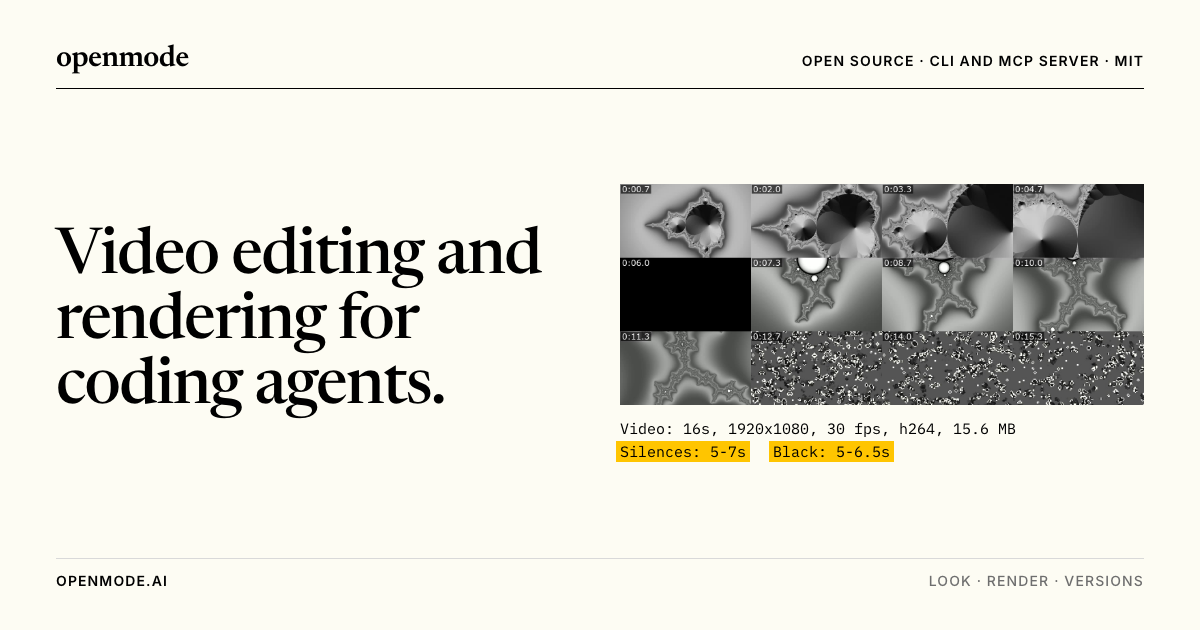
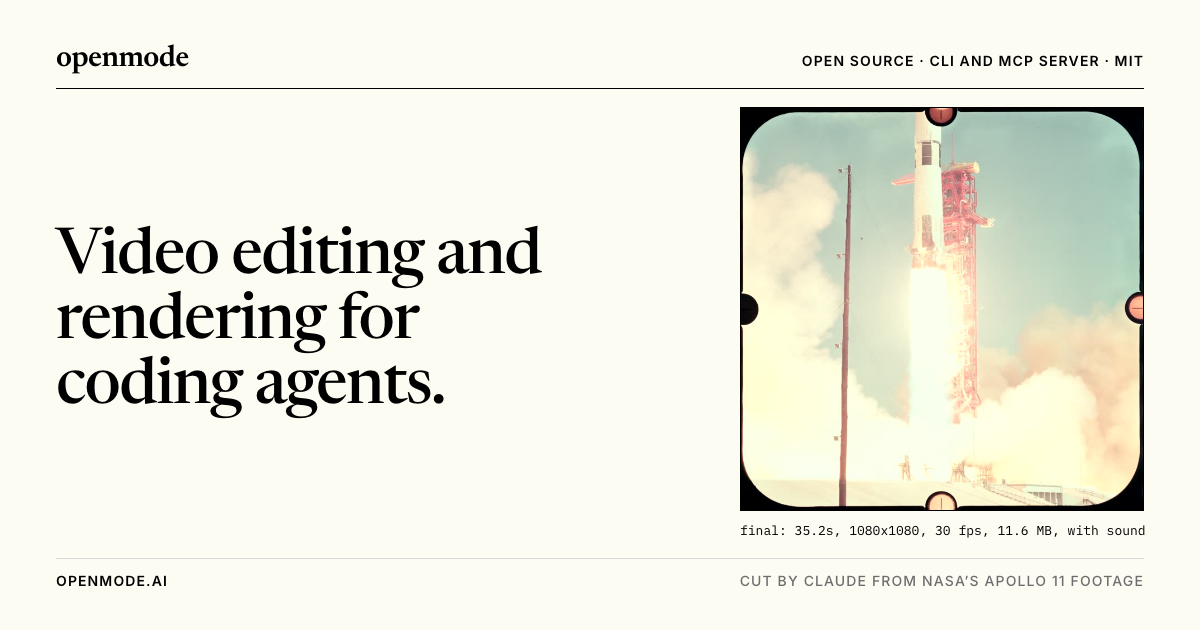
Show the Apollo 11 launch in the link preview image (#8)
The preview that X and others show for openmode.ai still pictured the
old test clip. design/og.html now uses the launch frame; og.png is
regenerated and its links carry ?v=2 so cached previews refresh.

Changed region(s): [[0.4933, 0.1508, 0.9558, 0.8444], [0.6167, 0.9048, 0.9558, 0.9349]]

diff --git a/site/index.html b/site/index.html
@@ -15,14 +15,14 @@
 <meta property="og:url" content="https://openmode.ai/">
 <meta property="og:title" content="openmode: video editing and rendering for coding agents">
 <meta property="og:description" content="An open-source CLI and MCP server. Agents look at footage, render an edit file to MP4 and keep every version, on your machine with your ffmpeg.">
-<meta property="og:image" content="https://openmode.ai/og.png">
+<meta property="og:image" content="https://openmode.ai/og.png?v=2">
 <meta property="og:image:width" content="1200">
 <meta property="og:image:height" content="630">
-<meta property="og:image:alt" content="openmode: video editing and rendering for coding agents, beside a contact sheet of a test clip.">
+<meta property="og:image:alt" content="openmode: video editing and rendering for coding agents, beside a frame of the Apollo 11 launch.">
 <meta name="twitter:card" content="summary_large_image">
 <meta name="twitter:title" content="openmode: video editing and rendering for coding agents">
 <meta name="twitter:description" content="An open-source CLI and MCP server. Agents look at footage, render an edit file to MP4 and keep every version, on your machine with your ffmpeg.">
-<meta name="twitter:image" content="https://openmode.ai/og.png">
+<meta name="twitter:image" content="https://openmode.ai/og.png?v=2">
 
 <link rel="preload" href="fonts/newsreader-latin.woff2" as="font" type="font/woff2" crossorigin>
 <link rel="preload" href="img/apollo-11-poster.jpg" as="image">
@@ -35,7 +35,7 @@
   "name": "openmode",
   "description": "Open-source video editing and rendering for coding agents. A command line tool and MCP server that runs locally on ffmpeg: look at a video as a contact sheet with facts, render an edit file or a folder of frames to MP4, and keep every version.",
   "url": "https://openmode.ai/",
-  "image": "https://openmode.ai/og.png",
+  "image": "https://openmode.ai/og.png?v=2",
   "applicationCategory": "MultimediaApplication",
   "applicationSubCategory": "Video editing",
   "operatingSystem": "macOS, Linux, Windows",

diff --git a/design/og.html b/design/og.html
@@ -15,8 +15,9 @@
   .head .eyebrow { font-size: 14px; }
   .body { flex: 1; display: grid; grid-template-columns: 520px 1fr; gap: 44px; align-items: center; }
   .body h1 { font-size: 64px; margin: 0; line-height: 1.02; text-wrap: wrap; }
-  .body img { width: 100%; }
-  .body pre { font-size: 15px; padding-top: 12px; }
+  .body .shot { justify-self: end; width: 404px; }
+  .body img { width: 404px; height: 404px; border: 1px solid #000; }
+  .body pre { font-size: 13px; padding-top: 10px; white-space: nowrap; }
   .foot { display: flex; justify-content: space-between; align-items: baseline; padding-top: 14px; border-top: 1px solid #d9d9d9; }
   .foot .eyebrow { font-size: 14px; }
 </style>
@@ -29,15 +30,14 @@
   </div>
   <div class="body">
     <h1>Video editing and rendering for coding agents.</h1>
-    <div>
-      <img src="../site/img/look-sheet.jpg" alt="">
-      <pre>Video: 16s, 1920x1080, 30 fps, h264, 15.6 MB
-<mark>Silences: 5-7s</mark>   <mark>Black: 5-6.5s</mark></pre>
+    <div class="shot">
+      <img src="../site/img/apollo-11-poster.jpg" alt="">
+      <pre>final: 35.2s, 1080x1080, 30 fps, 11.6 MB, with sound</pre>
     </div>
   </div>
   <div class="foot">
     <span class="eyebrow">openmode.ai</span>
-    <span class="eyebrow quiet">look · render · versions</span>
+    <span class="eyebrow quiet">Cut by Claude from NASA’s Apollo 11 footage</span>
   </div>
 </div>
 </body>

diff --git a/design/README.md b/design/README.md
@@ -34,4 +34,4 @@ The page was cut from 777 visible words to about 400 on 14 Nov 2026. Keep it tha
 
 Every command and output block on the page was produced by openmode 0.1.0 while making the Apollo 11 demo in `examples/apollo-11` from NASA footage. The contact sheet is `openmode look` on the launch film with `--frames 10 --start 4 --end 62`; the edit file shown is a shortened `apollo.json` that still passes `openmode check`. To regenerate, rerun the commands shown on the page and copy the new sheet into `site/img/`.
 
-`design/og.html` is the source of `site/og.png` (open at 1200x630 and screenshot); it still uses the earlier test-clip sheet, `site/img/look-sheet.jpg`. `design/screenshots/` holds the first version of the page at 1440px and 390px.
+`design/og.html` is the source of `site/og.png`. Regenerate it with headless Chrome at 1200x630 (`--headless=new --window-size=1200,630 --force-device-scale-factor=1 --screenshot=site/og.png design/og.html`), and bump the `?v=` on the `og:image` links in `site/index.html` so link previews refresh. `design/screenshots/` holds the first version of the page at 1440px and 390px.
